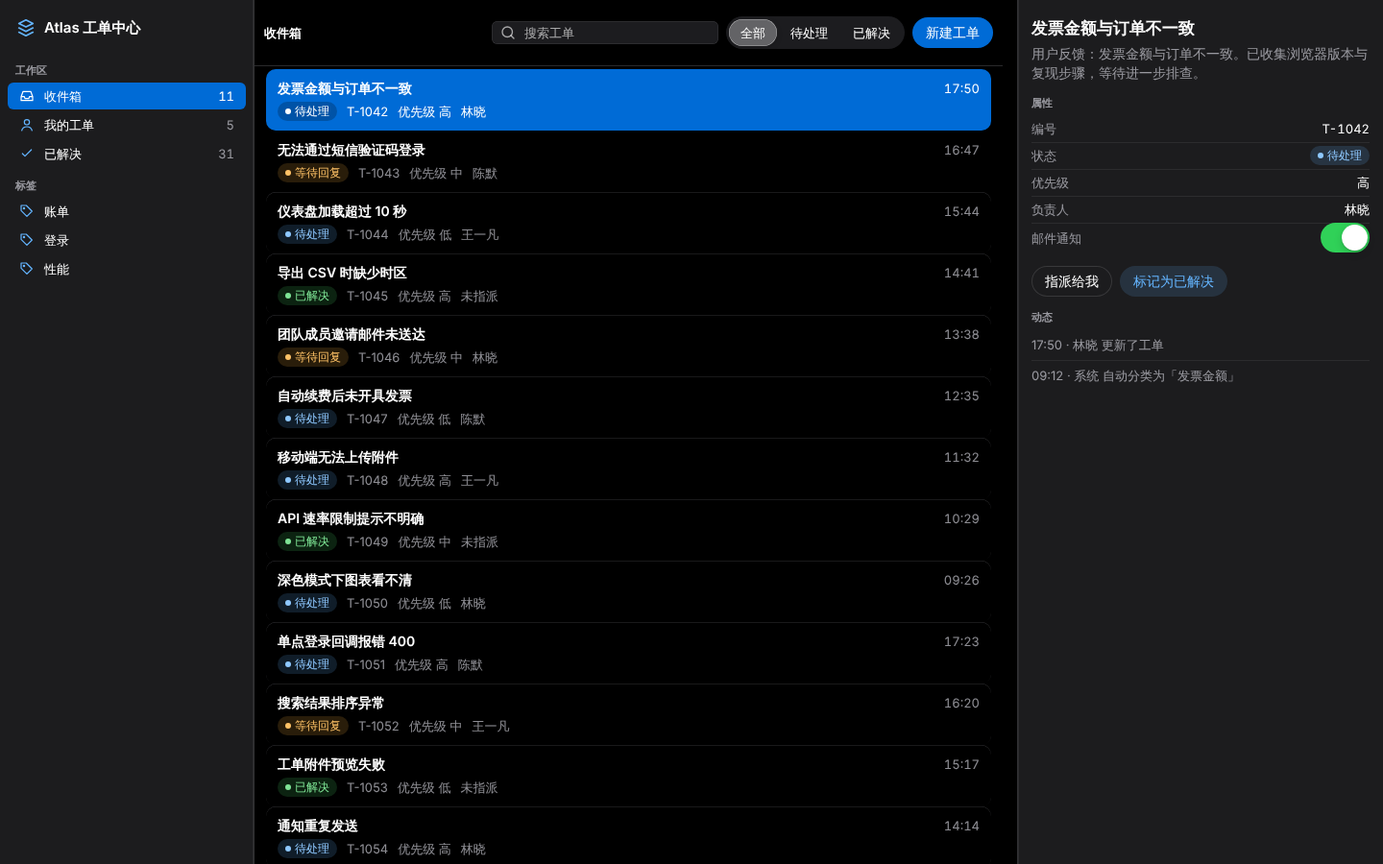
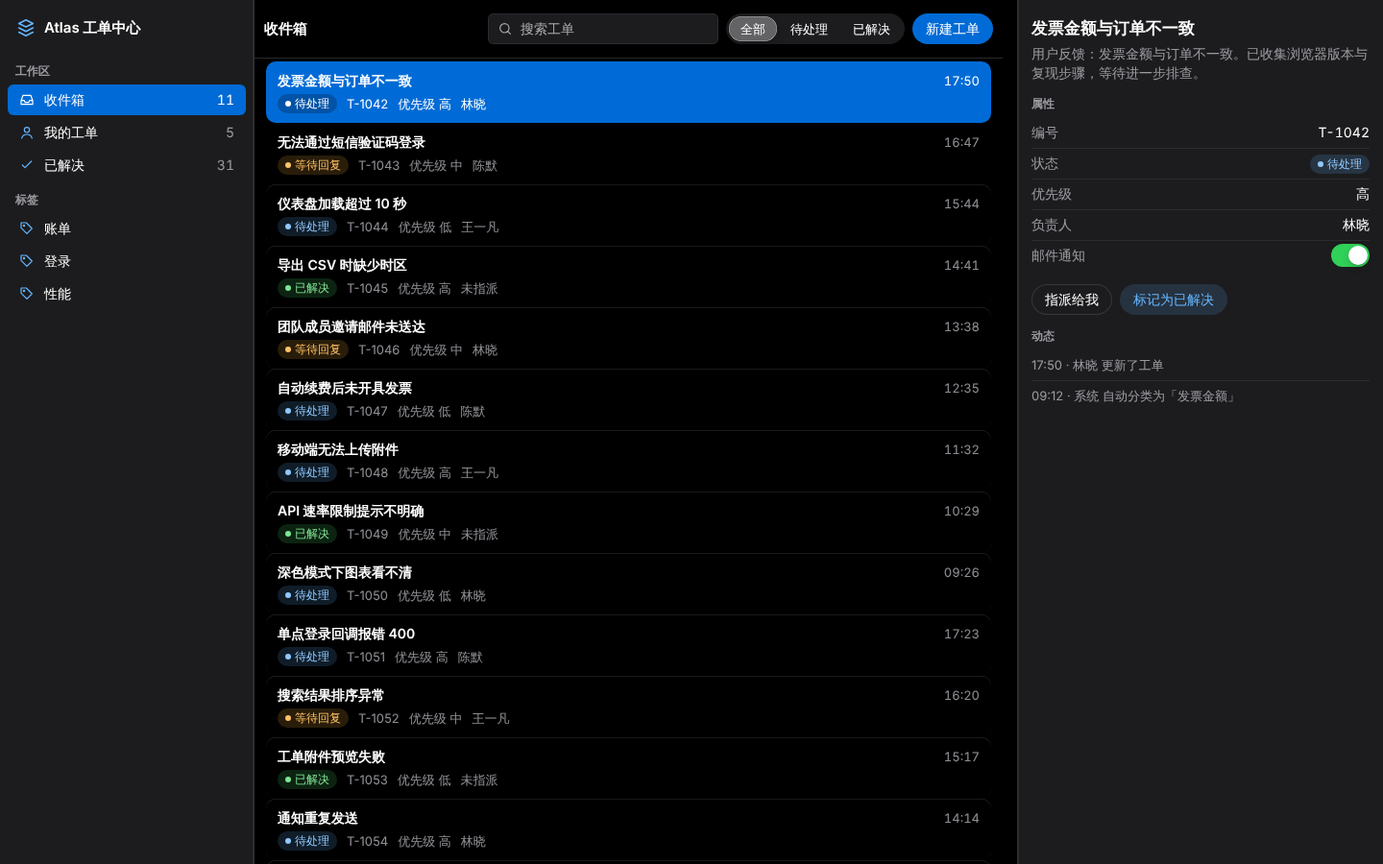
feat(web): desktop web density tier (data-density="desktop")
Cross-platform desktop web apps had to choose between the iOS density
(17 px text, 44 px controls) and data-platform="macos" (13 px, 22 px),
or mix them: split panes at 13 px next to 44 px buttons.

data-density="desktop" scales every component together as a project
default (not an Apple specification): 14/20 text and a matching text
style ladder that keeps .as-em weights, 32 px buttons and search
fields, a 32 px segmented control, 32 px menu, sidebar, inspector and
split-pane rows, a 40x24 switch and a 20 px slider thumb. With touch
input (any-pointer: coarse) it keeps 44 px targets, 16 px field text and
the touch-size switch and slider. Set on <html>, top-layer dialogs get
it too.

The density docs now describe three tiers chosen by product and input;
the old text told every desktop target to use data-platform="macos",
which contradicted rules-and-evidence.md. The evaluation page uses the
attribute instead of its own overrides; its checks still pass.

tests/browser/density.spec.js covers the unchanged default, desktop
sizes, switch travel and drag, slider knob alignment, RTL and touch.

Claude-Session: https://claude.ai/code/session_0163K8SVLbZWBfLNuicnwL89

diff --git a/skills/Apple-Style/web/apple-style.css b/skills/Apple-Style/web/apple-style.css
@@ -1019,6 +1019,110 @@
 }
 
 /* --------------------------------------------------------------------------
+   6c. Desktop web density — data-density="desktop"
+
+   A cross-platform desktop web app (consoles, dashboards, admin tools) sits
+   between the two densities above: the iOS default (17 px text, 44 px
+   controls) is loose for pointer-driven work, and data-platform="macos"
+   (13 px, 22 px) is an explicit choice for a Mac-like surface. This tier is a
+   PROJECT DEFAULT, not an Apple specification: 14/20 text and 32 px controls,
+   with every component scaled together so one page has one density.
+
+   Put the attribute on <html>: dialogs and popovers render in the top layer,
+   outside any app container. Touch input (any-pointer: coarse — including a
+   touchscreen laptop with a trackpad) keeps 44 px targets and 16 px field
+   text, and switches and sliders keep their touch size. Use either this or
+   data-platform="macos", not both.
+   -------------------------------------------------------------------------- */
+[data-density="desktop"] {
+  --as-control-h: 32px;     /* buttons, search fields; segmented controls in total */
+  --as-control-h-s: 28px;   /* small buttons, glass group items */
+  --as-row-min: 32px;       /* menu, sidebar, inspector and split-pane rows */
+  --as-field-font: 14px;
+}
+@media (any-pointer: coarse) {
+  [data-density="desktop"] { --as-control-h: var(--as-hit-min); --as-control-h-s: var(--as-hit-min); --as-row-min: var(--as-hit-min); --as-field-font: 16px; }
+}
+[data-density="desktop"] .as-root, [data-density="desktop"] .as-body,
+.as-root[data-density="desktop"], .as-body[data-density="desktop"] { font-size: 14px; line-height: 20px; }
+/* Text styles: size, leading and tracking only, so .as-em weights still apply.
+   The iOS tracking values are tuned for SF at iOS sizes; at 13–17 px on the
+   web they read cramped, and they are wrong for CJK. */
+[data-density="desktop"] .as-text-largetitle { font-size: 28px; line-height: 34px; letter-spacing: 0; }
+[data-density="desktop"] .as-text-title1     { font-size: 24px; line-height: 30px; letter-spacing: 0; }
+[data-density="desktop"] .as-text-title2     { font-size: 20px; line-height: 26px; letter-spacing: 0; }
+[data-density="desktop"] .as-text-title3     { font-size: 17px; line-height: 22px; letter-spacing: 0; }
+[data-density="desktop"] .as-text-headline,
+[data-density="desktop"] .as-text-body       { font-size: 14px; line-height: 20px; letter-spacing: 0; }
+[data-density="desktop"] .as-text-callout,
+[data-density="desktop"] .as-text-subhead    { font-size: 13px; line-height: 18px; letter-spacing: 0; }
+[data-density="desktop"] .as-text-footnote,
+[data-density="desktop"] .as-text-caption1   { font-size: 12px; line-height: 16px; letter-spacing: 0; }
+[data-density="desktop"] .as-text-caption2   { font-size: 11px; line-height: 14px; letter-spacing: 0; }
+
+[data-density="desktop"] .as-button { min-height: var(--as-control-h); padding: 0 14px; font-size: 14px; line-height: 20px; letter-spacing: 0; }
+[data-density="desktop"] .as-button-mini   { min-height: 22px; padding: 0 10px; font-size: 12px; line-height: 16px; }
+[data-density="desktop"] .as-button-small  { min-height: var(--as-control-h-s); padding: 0 12px; font-size: 13px; line-height: 18px; }
+[data-density="desktop"] .as-button-large  { min-height: 40px; padding: 0 20px; font-size: 15px; line-height: 20px; }
+[data-density="desktop"] .as-button-xlarge { min-height: 48px; padding: 0 24px; font-size: 17px; line-height: 22px; }
+[data-density="desktop"] .as-button-icon   { width: var(--as-control-h); padding: 0; }
+
+[data-density="desktop"] .as-glass-group { padding: 3px; }
+[data-density="desktop"] .as-glass-group > .as-item { min-width: var(--as-control-h-s); min-height: var(--as-control-h-s); padding: 0 10px; font-size: 14px; line-height: 20px; letter-spacing: 0; }
+[data-density="desktop"] .as-toolbar { min-height: 48px; padding-block: 6px; }
+[data-density="desktop"] .as-toolbar-title { font-size: 15px; line-height: 20px; letter-spacing: 0; }
+[data-density="desktop"] .as-navbar .as-large-title { font-size: 28px; line-height: 34px; letter-spacing: 0; }
+
+[data-density="desktop"] .as-search { min-height: var(--as-control-h); padding: 0 10px; gap: 6px; }
+[data-density="desktop"] .as-search input,
+[data-density="desktop"] .as-toolbar-window .as-search input { font-size: var(--as-field-font); line-height: 20px; letter-spacing: 0; }
+[data-density="desktop"] .as-search svg { width: 16px; height: 16px; }
+
+/* The segmented control's 3 px track inset is part of its height, so the
+   whole control lines up with a 32 px button. */
+[data-density="desktop"] .as-segmented .as-segment { min-height: calc(var(--as-control-h) - 6px); padding: 0 12px; font-size: 13px; line-height: 18px; letter-spacing: 0; }
+
+[data-density="desktop"] .as-sidebar .as-row { min-height: var(--as-row-min); font-size: 14px; line-height: 20px; }
+[data-density="desktop"] .as-sidebar .as-section-title { font-size: 12px; line-height: 16px; }
+[data-density="desktop"] .as-inspector .as-field { font-size: 14px; line-height: 20px; }
+[data-density="desktop"] .as-inspector .as-inspector-title { font-size: 12px; line-height: 16px; }
+[data-density="desktop"] .as-list li { min-height: max(var(--as-row-min), 36px); font-size: 14px; line-height: 20px; letter-spacing: 0; }
+[data-density="desktop"] .as-list-header { font-size: 12px; line-height: 16px; }
+
+[data-density="desktop"] .as-menu { min-width: 200px; padding: 4px; }
+[data-density="desktop"] .as-menu .as-menu-item { min-height: var(--as-row-min); gap: 10px; padding: 0 10px; border-radius: var(--as-radius-s); font-size: 14px; line-height: 20px; letter-spacing: 0; }
+[data-density="desktop"] .as-menu .as-menu-item svg { width: 16px; height: 16px; }
+[data-density="desktop"] .as-menu .as-menu-item .as-shortcut { font-size: 13px; }
+[data-density="desktop"] .as-sheet .as-sheet-title { font-size: 17px; line-height: 22px; }
+[data-density="desktop"] .as-alert h2 { font-size: 15px; line-height: 20px; letter-spacing: 0; }
+
+@media (min-width: 1024px) {
+  [data-density="desktop"] .as-tabbar[data-sidebar] .as-tab,
+  [data-density="desktop"] .as-tabbar[data-sidebar] .as-tab-search { min-height: var(--as-row-min); }
+  [data-density="desktop"] .as-tabbar[data-sidebar] .as-tab,
+  [data-density="desktop"] .as-tabbar[data-sidebar] .as-tab span { font-size: 14px; line-height: 20px; }
+}
+
+/* Switch and slider shrink only when no touch input is available. */
+@media not all and (any-pointer: coarse) {
+  [data-density="desktop"] .as-toggle { width: 40px; height: 24px; }
+  [data-density="desktop"] .as-toggle .as-knob { width: var(--as-knob-w, 20px); height: 20px; }
+  [data-density="desktop"] .as-toggle[aria-checked="true"] { --as-knob-x: 16px; }
+  [data-density="desktop"] .as-toggle:active, [data-density="desktop"] .as-toggle.is-scrubbing { --as-knob-w: 24px; }
+  [data-density="desktop"] .as-toggle[aria-checked="true"]:active { --as-knob-x: 12px; }
+  [data-density="desktop"] .as-toggle[aria-checked="true"]:dir(rtl) { --as-knob-x: -16px; }
+  [data-density="desktop"] .as-toggle[aria-checked="true"]:active:dir(rtl) { --as-knob-x: -12px; }
+
+  [data-density="desktop"] .as-slider { height: 28px; }
+  [data-density="desktop"] .as-slider::-webkit-slider-runnable-track { height: 4px; border-radius: 2px; }
+  [data-density="desktop"] .as-slider::-webkit-slider-thumb { width: 20px; height: 20px; margin-top: -8px; }
+  [data-density="desktop"] .as-slider::-moz-range-track,
+  [data-density="desktop"] .as-slider::-moz-range-progress { height: 4px; border-radius: 2px; }
+  [data-density="desktop"] .as-slider::-moz-range-thumb { width: 20px; height: 20px; }
+  [data-density="desktop"] .as-slider-knob { width: 20px; height: 20px; margin-left: -10px; }
+}
+
+/* --------------------------------------------------------------------------
    7. Accessibility + user preferences (applied system-wide, automatically)
    -------------------------------------------------------------------------- */
 /* Reduce Transparency → frostier, obscures more of what's behind */

diff --git a/tests/browser/density.spec.js b/tests/browser/density.spec.js
@@ -1,0 +1,98 @@
+// data-density="desktop": one coherent 14/20 text, 32 px control tier for
+// cross-platform desktop web apps, with 44 px targets kept for touch input.
+const { test, expect } = require('@playwright/test');
+const base = 'http://127.0.0.1:8767';
+const page0 = (density, dir = 'ltr') => `<!doctype html><html dir="${dir}" ${density ? `data-density="${density}"` : ''}><head>
+  <link rel="stylesheet" href="${base}/skills/Apple-Style/web/apple-style.css"></head><body class="as-body">
+  <main id="root">
+    <p class="as-text-largetitle as-em" id="title">Title</p><p class="as-text-body" id="bodytext">Body</p>
+    <button class="as-button as-button-filled" id="btn">Save</button><button class="as-button as-button-small" id="small">Small</button>
+    <button class="as-button as-button-icon" id="icon" aria-label="Add">+</button>
+    <div class="as-segmented" role="radiogroup" aria-label="View" id="seg"><button class="as-segment is-selected">One</button><button class="as-segment">Two</button></div>
+    <label class="as-search" id="search"><input type="search" aria-label="Search"></label>
+    <button class="as-toggle" role="switch" aria-checked="false" aria-label="Wi-Fi" id="toggle"><span class="as-knob"></span></button>
+    <div style="width:300px;position:relative"><input class="as-slider" type="range" min="0" max="100" value="30" aria-label="Volume" id="slider"></div>
+    <div class="as-glass as-glass-group" id="group"><button class="as-item">Share</button></div>
+    <ul class="as-list"><li id="li">Row</li></ul>
+    <div class="as-glass as-glass-large as-menu is-open" style="position:static" role="menu"><button class="as-menu-item" role="menuitem" id="menuitem">Copy</button></div>
+    <div class="as-split" style="block-size:200px">
+      <nav class="as-sidebar" aria-label="Sections"><a class="as-row" href="#a" id="row">Inbox</a></nav>
+      <main class="as-content">Content</main>
+      <aside class="as-inspector" aria-label="Details"><div class="as-field" id="field"><span>Status</span><span>Open</span></div></aside>
+    </div>
+  </main><script src="${base}/skills/Apple-Style/web/liquid-glass.js"></script></body></html>`;
+
+async function open(page, density, dir) {
+  await page.setViewportSize({ width: 1280, height: 1200 });
+  await page.emulateMedia({ reducedMotion: 'reduce' });
+  await page.goto(base);
+  await page.setContent(page0(density, dir));
+  await page.evaluate(() => LiquidGlass.init(document.querySelector('#root')));
+  await page.waitForFunction(() => document.getAnimations().length === 0);
+}
+const sizes = page => page.evaluate(() => {
+  const h = id => Math.round(document.getElementById(id).getBoundingClientRect().height);
+  const w = id => Math.round(document.getElementById(id).getBoundingClientRect().width);
+  const cs = (el, p) => getComputedStyle(typeof el === 'string' ? document.querySelector(el) : el)[p];
+  return {
+    body: cs('body', 'fontSize'), title: [cs('#title', 'fontSize'), cs('#title', 'fontWeight')], text: cs('#bodytext', 'fontSize'),
+    button: [h('btn'), cs('#btn', 'fontSize')], small: h('small'), icon: w('icon'), segmented: h('seg'),
+    search: [h('search'), cs('#search input', 'fontSize')], toggle: [w('toggle'), h('toggle')],
+    groupItem: Math.round(document.querySelector('#group .as-item').getBoundingClientRect().height),
+    list: h('li'), menuItem: h('menuitem'), row: [h('row'), cs('#row', 'fontSize')], field: [h('field'), cs('#field', 'fontSize')],
+  };
+});
+
+test('without the attribute the iOS tier is unchanged', async ({ page }) => {
+  await open(page, null);
+  const s = await sizes(page);
+  expect(s).toMatchObject({ body: '17px', button: [44, '17px'], segmented: 38, search: [44, '17px'], toggle: [51, 31], menuItem: 44 });
+});
+
+test('desktop density scales every component together', async ({ page }) => {
+  await open(page, 'desktop');
+  expect(await sizes(page)).toEqual({
+    body: '14px', title: ['28px', '700'], text: '14px',
+    button: [32, '14px'], small: 28, icon: 32, segmented: 32,
+    search: [32, '14px'], toggle: [40, 24], groupItem: 28,
+    list: 36, menuItem: 32, row: [32, '14px'], field: [32, '14px'],
+  });
+});
+
+test('desktop switch travels and drags within its smaller track; slider knob sits on the thumb', async ({ page }) => {
+  await open(page, 'desktop');
+  const toggle = page.locator('#toggle');
+  await toggle.click();
+  await expect(toggle).toHaveAttribute('aria-checked', 'true');
+  await page.waitForFunction(() => document.getAnimations().length === 0);
+  const inset = await page.evaluate(() => { const t = toggle.getBoundingClientRect(), k = toggle.querySelector('.as-knob').getBoundingClientRect(); return [Math.round(k.left - t.left), Math.round(t.right - k.right)]; });
+  expect(inset).toEqual([18, 2]);
+  const b = await toggle.boundingBox();
+  await page.mouse.move(b.x + b.width - 6, b.y + b.height / 2); await page.mouse.down();
+  await page.mouse.move(b.x + b.width - 14, b.y + b.height / 2, { steps: 3 });
+  await page.mouse.move(b.x + 2, b.y + b.height / 2, { steps: 3 }); await page.mouse.up();
+  await expect(toggle).toHaveAttribute('aria-checked', 'false');
+
+  await expect.poll(async () => {
+    const [s, k] = [await page.locator('#slider').boundingBox(), await page.locator('.as-slider-knob').boundingBox()];
+    return [Math.round(k.width), Math.abs(k.x + k.width / 2 - (s.x + 10 + 0.3 * (s.width - 20))) < 1.5];
+  }).toEqual([20, true]);
+});
+
+test('desktop switch mirrors in RTL', async ({ page }) => {
+  await open(page, 'desktop', 'rtl');
+  await page.locator('#toggle').click();
+  await page.waitForFunction(() => document.getAnimations().length === 0);
+  const inset = await page.evaluate(() => { const t = toggle.getBoundingClientRect(), k = toggle.querySelector('.as-knob').getBoundingClientRect(); return [Math.round(k.left - t.left), Math.round(t.right - k.right)]; });
+  expect(inset).toEqual([2, 18]);
+});
+
+test.describe('with touch input', () => {
+  test.use({ hasTouch: true });
+  test('desktop density keeps 44 px targets, 16 px field text and the touch-size switch', async ({ page }) => {
+    await open(page, 'desktop');
+    const s = await sizes(page);
+    expect(s).toMatchObject({ body: '14px', button: [44, '14px'], icon: 44, segmented: 44, search: [44, '16px'], toggle: [51, 31],
+      groupItem: 44, list: 44, menuItem: 44, row: [44, '14px'], field: [44, '14px'] });
+  });
+});

diff --git a/evals/runs/2026-10-17-pc-web/index.html b/evals/runs/2026-10-17-pc-web/index.html
@@ -1,5 +1,5 @@
 <!doctype html>
-<html lang="zh-Hans">
+<html lang="zh-Hans" data-density="desktop">
 <head>
 <meta charset="utf-8">
 <meta name="viewport" content="width=device-width, initial-scale=1">
@@ -33,15 +33,8 @@
   .brand svg { inline-size: 22px; block-size: 22px; color: var(--as-accent); }
   .as-sidebar .as-row .count { margin-inline-start: auto; font-variant-numeric: tabular-nums; }
 
-  /* [gap] desktop-web density: the library has an iOS tier (17 px text, 44 px
-     controls) and a macOS tier (13 px, 22 px) but nothing for a cross-platform
-     desktop web app; panes inside .as-split are already 13 px while buttons,
-     segmented controls and search stay at the iOS size. */
-  /* Scoped to the body, not .app: a modal <dialog> renders in the top layer
-     outside the app frame and would otherwise fall back to the iOS tier. */
-  body.as-body { font: 400 14px/20px var(--as-font-text); color: var(--as-label); }
-  body .as-button { min-block-size: 32px; padding-inline: 14px; font-size: 14px; line-height: 20px; }
-  body .as-segmented .as-segment { min-block-size: 28px; padding-inline: 12px; font-size: 13px; line-height: 18px; }
+  /* Density: data-density="desktop" on <html> (the first run needed 4 lines of
+     [gap] overrides here, before the library had a desktop web tier). */
   .app .as-toolbar-window .as-search { inline-size: 220px; }
 
 

diff --git a/evals/runs/2026-10-17-pc-web/report.md b/evals/runs/2026-10-17-pc-web/report.md
@@ -54,7 +54,7 @@
 
 | 缺口 | 页面代码 | 说明 |
 |---|---|---|
-| 桌面 Web 密度档 | 4 行 CSS | 库只有 iOS 档（17px / 44px）和 macOS 档（13px / 22px）；分栏内部已是 13px，按钮、分段、搜索仍是 iOS 尺寸，同一页面里密度不一致 |
+| 桌面 Web 密度档 | ~~4 行 CSS~~ 已由库提供 | 第一轮时库只有 iOS 档（17px / 44px）和 macOS 档（13px / 22px），分栏内部已是 13px，按钮、分段、搜索仍是 iOS 尺寸。现在用 `<html data-density="desktop">`，见第 9 节 |
 | CJK 字体与字距 | 3 行 CSS | 字体栈没有中文字体，字阶用的是拉丁文字距 |
 | 可选择的列表（listbox） | 12 行 CSS + 约 10 行 JS | `.as-list` 是 iOS 分组列表，`.as-list-column` 没有行样式 |
 | 表单控件 | 15 行 CSS | 文本框、文本区、pop-up 按钮（select）、标签、提示、错误；库只有玻璃搜索框 |
@@ -64,7 +64,7 @@
 | Toast | 3 行 CSS + 约 4 行 JS | z-index 表里有 toast 层级，但没有组件 |
 | 自定义组件的强制颜色适配 | 4 行 CSS | 库只处理自己的控件 |
 
-合计（第一轮）：页面 CSS **89 行声明**（`[gap]` 68、`[defect]` 12、`[page]` 9），页面 JS 78 行（其中约 22 行补的是库缺的交互）。页面用到了库的 33 个类和 20 个语义变量。D1–D3 修复后，`[defect]` 的 12 行已删除，现为 77 行。
+合计（第一轮）：页面 CSS **89 行声明**（`[gap]` 68、`[defect]` 12、`[page]` 9），页面 JS 78 行（其中约 22 行补的是库缺的交互）。页面用到了库的 33 个类和 20 个语义变量。D1–D3 修复后删去了 12 行 `[defect]`，尺寸档上线后又删去了密度覆盖；当前为 **76 行**（`[gap]` 63、`[page]` 13）。
 
 ## 6. 与 2026-10-16 审计相比
 
@@ -82,13 +82,13 @@
 **做“真实 PC 端网页”的能力判断**
 
 - **做内部工具或后台原型**：可以。照着技能能较快得到一个观感统一、键盘可用、深浅色都正确的界面，主要工作量集中在第 5 节那些缺口上。
-- **做面向用户的正式产品**：D1–D3 已修复；还需要补上桌面 Web 密度档和表单/选择/列表/对话框这类组件，再在 Safari、Firefox 和读屏软件上实测。
+- **做面向用户的正式产品**：D1–D3 已修复，桌面 Web 尺寸档已提供；还需要补上表单/选择/列表/对话框这类组件，再在 Safari、Firefox 和读屏软件上实测。
 - **做营销 / 内容网站**：这次没有测。组件以 App 结构为主，审计第 4 节指出的“内容网站模式缺失”依然成立。
 
 ## 7. 建议的下一步（按投入产出排序）
 
 1. ~~修 D1–D3，样式测试补上次要文字和 tinted 按钮的对比度检查。~~ 已完成（第 8 节）。
-2. 增加桌面 Web 密度档（例如 `data-density="desktop"`：14px 正文、32px 控件），覆盖按钮、分段、搜索和开关。
+2. ~~增加桌面 Web 密度档（例如 `data-density="desktop"`：14px 正文、32px 控件），覆盖按钮、分段、搜索和开关。~~ 已完成（第 9 节）。
 3. 用原生能力补组件：基于可定制 `<select>` 的 pop-up/pull-down、表单字段（含错误态）、listbox/表格行、`<dialog>` 模态（含不透明材质）、Toast、空状态与骨架屏。
 4. Playwright 增加 WebKit 和 Firefox 项目。
 5. 把本页面作为 `evals/` 的固定任务，做技能启用/关闭对比。
@@ -107,3 +107,16 @@
 **评估页复测**：删除全部 `[defect]` 覆盖，只依赖修复后的库重跑 `check.spec.js`：4 项全部通过。axe 浅色对比度违规为 0（第一轮 68 处），深色为 0，对话框打开时为 0；剩余的只有 D4 `region`（最佳实践级）。各栏回到库的默认宽度，没有横向溢出。
 
 **后续修复**：`.as-button-destructive` 与菜单里的 `.as-destructive` 原先用系统红 `rgb(255 56 60)` 作为文字色，白底 3.57:1，同样低于 4.5:1（本页面没有用到，所以 axe 没报）。已参照 D3 新增 `--as-destructive-text`：浅色 `#d1001f`、深色 `#ff6961`，在标准背景与大玻璃上 ≥ 4.94:1，增强对比度下更深。
+
+## 9. 桌面 Web 尺寸档上线后复测
+
+库新增了 `data-density="desktop"`，评估页改为在 `<html>` 上设置它，并删除自写的密度覆盖。这是项目默认值，不是 Apple 规范：
+
+- 正文 14/20；按钮、搜索框 32px；分段控件整体 32px，与按钮对齐；菜单、侧栏、详情和分栏行 32px；开关 40×24；滑块拇指 20px。
+- 文字样式阶梯同步缩放，`.as-em` 的加粗依然生效。
+- 设在 `<html>` 上时，顶层渲染的对话框也是同一档。第一轮里对话框回到 iOS 尺寸的问题由此消失。
+- 有触屏输入（`any-pointer: coarse`）时，控件保持 44px 命中区、16px 输入文字，开关和滑块保持触屏尺寸。
+
+复测结果：`check.spec.js` 4 项全部通过，axe 结果不变（只剩 D4 `region`），1024–1920px 无溢出。`page-light.png` 中侧栏、列表、详情、工具栏和对话框是同一档尺寸。
+
+新功能的测试在 `tests/browser/density.spec.js`，共 5 项：不设属性时 iOS 档不变；桌面档各组件尺寸；开关的行程与拖拽、滑块覆盖旋钮与原生拇指对齐；RTL 镜像；触屏回退。

diff --git a/skills/Apple-Style/cheatsheets/web-implementation.md b/skills/Apple-Style/cheatsheets/web-implementation.md
@@ -173,22 +173,33 @@ That is why there are two tiers instead of one set of widths.
   two boards lying on a page. `.as-window` is `100dvh` with `overflow: hidden`;
   the panes scroll, the window never does.
 
-## Density (macOS)
+## Density
 
-`data-platform="macos"` on `<html>` is the desktop density switch, and it is
-easy to miss — set it first for any desktop target. It already carries real
-numbers, not a tweak:
+Pick the density from the product and its input, not from the viewport width,
+and set it on `<html>` (dialogs and popovers render in the top layer, outside
+any app container):
 
-| | iOS default | `data-platform="macos"` |
-|---|---|---|
-| Body text | 17/22 | **13/16** |
-| `.as-button` | 44px min-height, capsule | **22px**, `--as-radius-xs` |
-| `.as-menu-item` | 44px | **28px** |
-| Large title | 34/41 | 26/32 |
+| | iOS default | `data-density="desktop"` | `data-platform="macos"` |
+|---|---|---|---|
+| For | phone/tablet-first UI, touch | cross-platform desktop web apps: consoles, dashboards, admin tools | an explicitly Mac-like application surface |
+| Body text | 17/22 | **14/20** | **13/16** |
+| `.as-button` | 44px, capsule | **32px**, capsule | **22px**, `--as-radius-xs` |
+| Segmented control | 38px | **32px** | (iOS size) |
+| Search field | 44px | **32px** | (window toolbar: 24px) |
+| `.as-menu-item`, sidebar and pane rows | 44px | **32px** | **28px** |
+| Switch | 51×31 | **40×24** | (iOS size) |
+| Large title | 34/41 | 28/34 | 26/32 |
+
+`data-density="desktop"` is a project default, not an Apple specification. It
+scales every component together, so a page has one density instead of 13px
+panes next to 44px buttons. With touch input (`any-pointer: coarse`, which
+includes touchscreen laptops) it keeps 44px targets, 16px field text (iOS
+Safari zooms smaller inputs) and the touch-size switch and slider. Use either
+it or `data-platform="macos"`, not both.
 
 Inside `.as-split`, sidebar rows and inspector fields use `--as-row-min`
-(28px), and `@media (any-pointer: coarse)` raises it back to 44px — see the hit
-region note below. macOS keeps **capsules for Large/XL controls and standout
+(28px; 32px with the desktop density), and `@media (any-pointer: coarse)` raises
+it back to 44px — see the hit region note below. macOS keeps **capsules for Large/XL controls and standout
 actions only**; mini/small/medium stay rounded rectangles, which is what the
 `--as-radius-xs` override is for. A desktop window made entirely of 44pt
 capsules is the most common tell that a phone stylesheet was stretched.

diff --git a/skills/Apple-Style/SKILL.md b/skills/Apple-Style/SKILL.md
@@ -21,7 +21,7 @@ Entry point for four companion skills: this skill covers composition and Web imp
 - Keep a clear content/control hierarchy. Prefer regular glass on floating navigation and controls; content usually uses solid backgrounds or standard materials. Avoid unnecessary glass nesting. Platform-specific exceptions come from the source, not a universal prohibition.
 - Use semantic label, background, separator and action colors. System color samples are not contrast guarantees: ordinary meaningful text needs 4.5:1 in default light and dark states. White-text buttons and selected rows use `--as-action-bg` / `--as-action-fg`; retest custom tints over the actual backdrop.
 - Use concentric radii for nested shapes. Capsules suit many touch controls; dense Mac controls can use rounded rectangles. Exact spacing, pane widths and corner sizes in the Web CSS are project defaults.
-- Select density from product/platform intent; adapt layout to the container. `data-platform="macos"` is an explicit density choice, never inferred from `>=1024px`. Sidebars, inspectors and menus are optional and follow the task's information structure.
+- Select density from product/platform intent; adapt layout to the container. Cross-platform desktop web apps use `data-density="desktop"` on `<html>` (14/20 text, 32px controls, 44px kept for touch); `data-platform="macos"` is an explicit choice for a Mac-like surface. Neither is inferred from `>=1024px`. Sidebars, inspectors and menus are optional and follow the task's information structure.
 - Keep meaningful click and keyboard activation even when adding drag. Respect disabled state, cancellation, focus and ARIA. Reduce Motion removes unnecessary elastic movement; avoid decorative bounce.
 - Prefer monochrome navigation icons and restrained primary tint as a visual default. Keep useful borders, custom backgrounds or brand colors when needed for contrast, grouping or the existing design system.
 - Native targets should use system components and semantic APIs first. Web assets do not ship SF fonts or SF Symbols.

diff --git a/skills/Apple-Style/cheatsheets/rules-and-evidence.md b/skills/Apple-Style/cheatsheets/rules-and-evidence.md
@@ -7,7 +7,7 @@ Choose four things independently before applying the design system:
 3. **Input:** touch, pointer, keyboard, assistive technology, or a combination. A wide iPad still needs touch targets; a narrow Mac window still needs keyboard access.
 4. **Available container:** actual width/height, zoom, safe areas, text scaling and surrounding panes. Reflow, collapse or disclose panes without changing platform identity.
 
-A 1366px iPad is not a Mac. A 700px Mac window is not an iPhone. A desktop browser page does not need a fake native window, sidebar or inspector. Use `.as-window` and `data-platform="macos"` only for an explicitly chosen Mac-like application surface. The stylesheet's 768/1024/1280px breakpoints and 264/380px pane widths are project defaults, not Apple platform detectors or official specifications.
+A 1366px iPad is not a Mac. A 700px Mac window is not an iPhone. A desktop browser page does not need a fake native window, sidebar or inspector. Use `.as-window` and `data-platform="macos"` only for an explicitly chosen Mac-like application surface; a cross-platform desktop web app uses `data-density="desktop"` (a project default density) with its own page structure. The stylesheet's 768/1024/1280px breakpoints and 264/380px pane widths are project defaults, not Apple platform detectors or official specifications.
 
 ## Strength of a rule
 

diff --git a/README.md b/README.md
@@ -106,6 +106,7 @@ irm https://raw.githubusercontent.com/Tsdsj/Apple-Style/main/install.ps1 | iex
 - Tailwind v4 / 级联层：样式表默认不分层，普通 `<link>` 行为不变；需要让工具类覆盖组件时，用 `@import "./apple-style.css" layer(components);` 导入到工具类之下的层。
 - `data-shortcuts`：⌘ 在 Apple 平台为 Command、其他平台为 Ctrl；焦点在文本框或富文本中时，全选、复制/剪切/粘贴、撤销/重做、光标移动与删除留给输入框，其他命令（如 ⌘S）照常执行。
 - 强制颜色（Windows 对比度主题）下，开关、分段选中、滑块与选中的标签/行改用系统色绘制；`dir="rtl"` 下滑块与开关按 HIG 镜像。
+- 尺寸档：默认是 iOS 档（17px 正文、44px 控件）；跨平台桌面 Web 应用在 `<html>` 上设 `data-density="desktop"`（14/20 正文、32px 控件，触屏时仍保持 44px 命中区）；Mac 风格界面用 `data-platform="macos"`。三者都按产品与输入方式选择，不按宽度推断。
 
 系统蓝色样本 `--as-blue` 保留；普通白字操作面使用 `--as-action-bg` / `--as-action-fg`，默认浅深色均满足 4.5:1。自定义 tint、透明度、图片背景和辅助文字仍应检查实际组合。增强对比度、降低透明度、减弱动态效果是额外支持，不是默认可读性的替代。
 

diff --git a/CHANGELOG.md b/CHANGELOG.md
@@ -25,6 +25,7 @@
 - 分栏变量（栏宽、内容最小宽度、行高、窗口工具栏高度）定义到 `:root`，`.as-split` 可以在 `.as-window` 之外使用，也仍可在任意祖先上覆盖；`.as-window` 没有菜单栏时分栏也能撑满高度；窄屏时所有分栏都隐藏拖拽条。
 - `--as-label-secondary` 浅色值从 60% 提到 74%，默认满足 4.5:1（白底 5.02:1、浅灰底 4.72:1）；深色不变。
 - 新增 `--as-accent-on-tint`，`.as-button-tinted` 的文字在浅色下改用深一档的蓝色（白底 5.57:1、浅灰底 5.04:1）。
+- 新增桌面 Web 尺寸档 `data-density="desktop"`：正文 14/20、按钮与搜索框 32px、分段控件整体 32px、菜单/侧栏/分栏行 32px、开关 40×24、滑块 20px 拇指，并有对应的文字样式阶梯；所有组件一起缩放。触屏（`any-pointer: coarse`）下保持 44px 命中区、16px 输入文字和触屏尺寸的开关与滑块。项目默认值，不是 Apple 规范。
 - 新增 `--as-destructive-text`，危险按钮与危险菜单项的文字不再使用系统红色样本（白底 3.57:1）：浅色 `#d1001f`、深色 `#ff6961`，在标准背景与大玻璃上 ≥ 4.94:1；增强对比度下为 `#b42318` / `#ff8a80`。
 
 ## v0.1.0 — 2026-10-04
